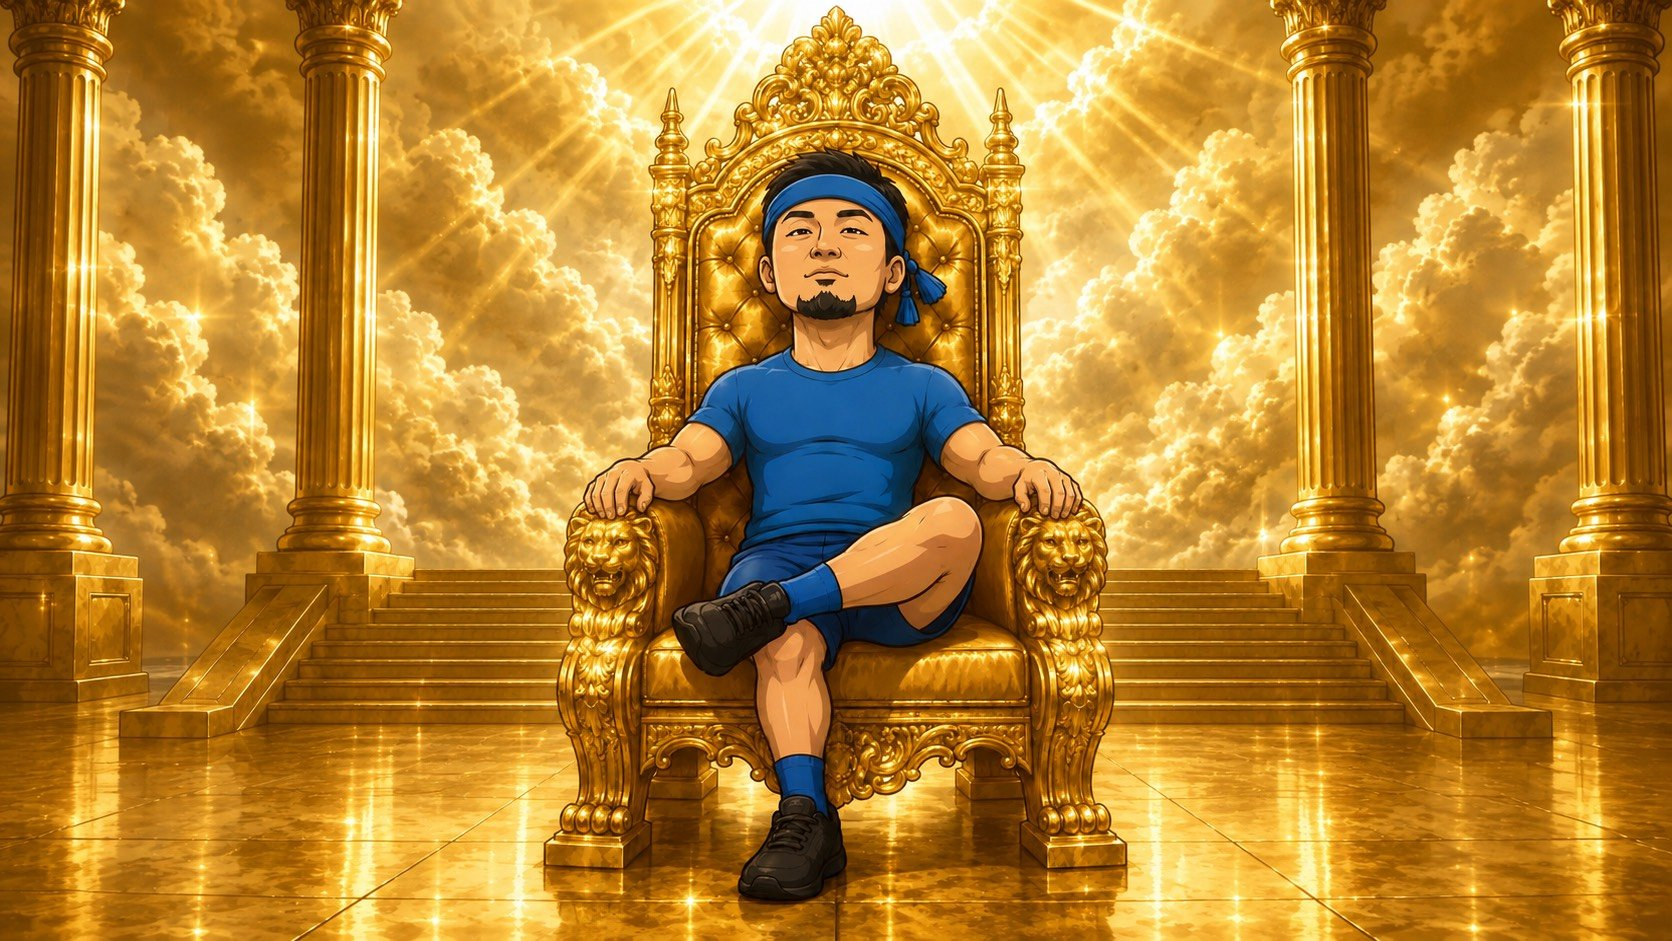
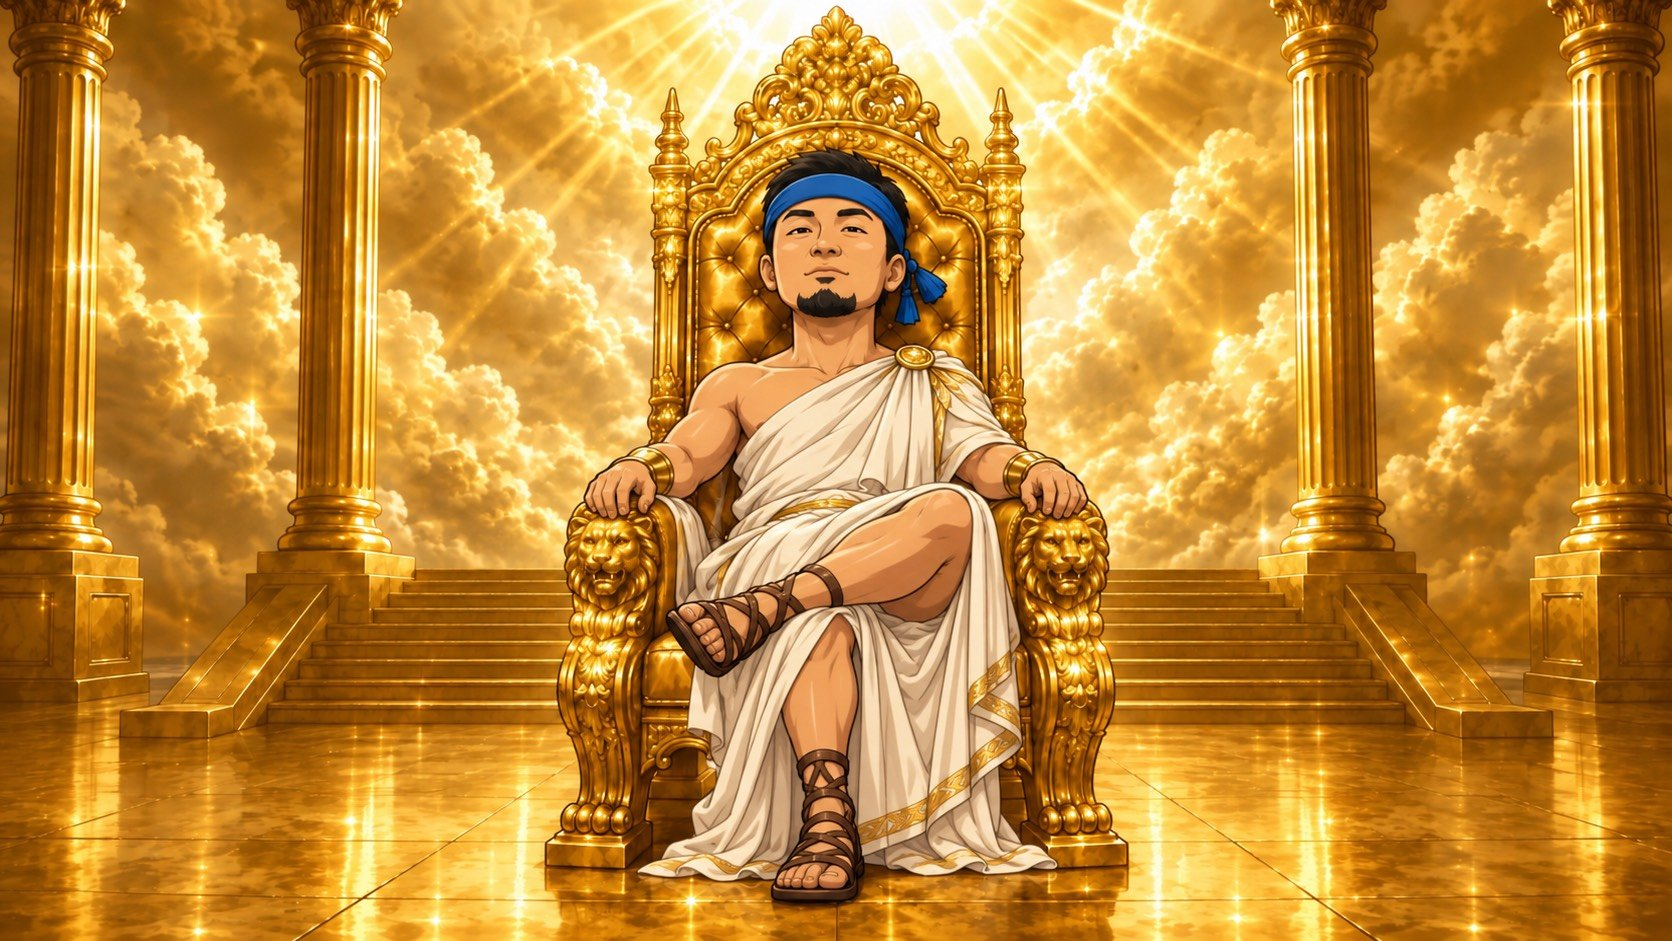
ギャル神のキメを支給素材ギャル神⑥（白トーガ）へ差し替え（v8・寸法同一でARは据え置き）

diff --git a/overlay.html b/overlay.html
@@ -3,7 +3,7 @@
 <head>
 <meta charset="utf-8">
 <title>overlay</title>
-<link rel="stylesheet" href="overlay.css?v=20260909-170920">
+<link rel="stylesheet" href="overlay.css?v=20260910-211924">
 </head>
 <body class="scene-talk" data-theme="a">
 
@@ -12,7 +12,7 @@
 
   <!-- ==== 全シーン共通ヘッダー ==== -->
   <header class="gbar">
-    <div class="sp-logo"><img src="sponsor_black.png?v=20260909-170920" alt="競輪公式投票CTC"></div>
+    <div class="sp-logo"><img src="sponsor_black.png?v=20260910-211924" alt="競輪公式投票CTC"></div>
     <div class="venue-tabs" id="vtabs"></div>
     <div class="camp-box hidden" id="camp-box"><span class="camp-label">本日のキャンペーン応募人数</span><span class="camp-num" id="camp-num"></span></div>
     <div class="clock-box"><span class="clock-date" data-clock-date></span><span class="clock-time" data-clock-time></span></div>
@@ -172,7 +172,7 @@
   <!-- ================= ⑤広告シーン ================= -->
   <section class="scene" id="scene-ad">
     <div class="panel ad-panel">
-      <div class="ad-logo"><img src="sponsor.png?v=20260909-170920" alt="競輪公式投票CTC"></div>
+      <div class="ad-logo"><img src="sponsor.png?v=20260910-211924" alt="競輪公式投票CTC"></div>
       <div class="ad-title" id="ad-title"></div>
       <ul class="ad-list" id="ad-list"></ul>
       <div class="ad-progress" id="ad-progress">
@@ -193,11 +193,11 @@
 
 <div class="dbg" id="dbg"></div>
 
-<script src="autoupdate.js?v=20260909-170920" data-au="reload"></script>
-<script src="config.js?v=20260909-170920"></script>
-<script src="keirin.js?v=20260909-170920"></script>
-<script src="derive.js?v=20260909-170920"></script>
-<script src="sync.js?v=20260909-170920"></script>
-<script src="overlay.js?v=20260909-170920"></script>
+<script src="autoupdate.js?v=20260910-211924" data-au="reload"></script>
+<script src="config.js?v=20260910-211924"></script>
+<script src="keirin.js?v=20260910-211924"></script>
+<script src="derive.js?v=20260910-211924"></script>
+<script src="sync.js?v=20260910-211924"></script>
+<script src="overlay.js?v=20260910-211924"></script>
 </body>
 </html>

diff --git a/overlay.js b/overlay.js
@@ -2431,12 +2431,13 @@
        DROP     …「ギャル神」が上から降り切るms（Naoto指定「ゆっくり」）
        HOLD     …キメを見せる時間ms（9/1夜v5「もうちょっと長め」＝2100→3400）／FADE…退場ms
      ⚠ENDがバッジまでの時間（fireHitFxがrainMsとして使う）＝約9.7秒（アジャスト10.3秒の帯）
-     素材＝fx_galgod_stairs/throne.jpg（素材加工/fx_galgod_make.py・元絵はOBS/ギャル神①③.jpg） */
+     素材＝fx_galgod_stairs/throne.jpg（素材加工/fx_galgod_make.py・元絵はOBS/ギャル神①⑥.jpg） */
   var GALGOD_BASE = { OPEN_HOLD: 350, OPEN_FADE: 900, CLIMB: 3000, FLASH_IN: 260, FLASH_OUT: 600,
     TITLE_LAG: 520, DROP: 1700, HOLD: 3400, FADE: 500 };
   var GALGOD_AR_S = 1122 / 1402; // 階段①の実寸比（横/縦）＝絵を差し替えたらfx_galgod_make.pyの出力で更新
-  var GALGOD_AR_T = 1672 / 941;  // 玉座③の実寸比（同上）。⚠9/1夜に②（縦長・顔アップ）→③（16:9全景）へ
+  var GALGOD_AR_T = 1672 / 941;  // 玉座⑥の実寸比（同上）。⚠9/1夜に②（縦長・顔アップ）→③（16:9全景）へ
                                  //   差し替え（Naoto「キメはワイプ画面を大きく使って表示」）＝ほぼ無クロップで敷ける
+                                 //   ⚠9/10にさらに③→⑥（白トーガの神様版）へ差し替え＝**寸法が同一なのでこの比は据え置き**
   var GALGOD_AR_I = 1280 / 427;  // 金塊④の切り抜き実寸比（同上）。9/1夜v7＝CSS描き→Naoto支給④へ
   var GALGOD_AR_F = 420 / 251;   // 金の羽⑤の切り抜き実寸比（同上）。9/1夜v7＝インラインSVG→支給⑤へ
   function galgodTimes() {

diff --git a/tenkai/index.html b/tenkai/index.html
@@ -4,7 +4,7 @@
 <meta charset="UTF-8">
 <meta name="viewport" content="width=device-width, initial-scale=1">
 <title>競輪 展開ボード</title>
-<link rel="stylesheet" href="css/style.css?v=20260909-170920">
+<link rel="stylesheet" href="css/style.css?v=20260910-211924">
 </head>
 <body>
 
@@ -91,15 +91,15 @@
 
 </div>
 
-<script src="../autoupdate.js?v=20260909-170920" data-au="output-only"></script>
-<script src="js/config.js?v=20260909-170920"></script>
-<script src="js/state.js?v=20260909-170920"></script>
-<script src="js/icons.js?v=20260909-170920"></script>
-<script src="js/bars.js?v=20260909-170920"></script>
-<script src="js/racecard.js?v=20260909-170920"></script>
-<script src="js/live.js?v=20260909-170920"></script>
-<script src="js/lineup.js?v=20260909-170920"></script>
-<script src="js/drag.js?v=20260909-170920"></script>
-<script src="js/main.js?v=20260909-170920"></script>
+<script src="../autoupdate.js?v=20260910-211924" data-au="output-only"></script>
+<script src="js/config.js?v=20260910-211924"></script>
+<script src="js/state.js?v=20260910-211924"></script>
+<script src="js/icons.js?v=20260910-211924"></script>
+<script src="js/bars.js?v=20260910-211924"></script>
+<script src="js/racecard.js?v=20260910-211924"></script>
+<script src="js/live.js?v=20260910-211924"></script>
+<script src="js/lineup.js?v=20260910-211924"></script>
+<script src="js/drag.js?v=20260910-211924"></script>
+<script src="js/main.js?v=20260910-211924"></script>
 </body>
 </html>

diff --git a/console.html b/console.html
@@ -4,7 +4,7 @@
 <meta charset="utf-8">
 <meta name="viewport" content="width=device-width, initial-scale=1">
 <title>配信コンソール</title>
-<link rel="stylesheet" href="console.css?v=20260909-170920">
+<link rel="stylesheet" href="console.css?v=20260910-211924">
 </head>
 <body>
 
@@ -227,11 +227,11 @@
 </div>
 </main>
 
-<script src="autoupdate.js?v=20260909-170920" data-au="banner"></script>
-<script src="config.js?v=20260909-170920"></script>
-<script src="keirin.js?v=20260909-170920"></script>
-<script src="derive.js?v=20260909-170920"></script>
-<script src="sync.js?v=20260909-170920"></script>
-<script src="console.js?v=20260909-170920"></script>
+<script src="autoupdate.js?v=20260910-211924" data-au="banner"></script>
+<script src="config.js?v=20260910-211924"></script>
+<script src="keirin.js?v=20260910-211924"></script>
+<script src="derive.js?v=20260910-211924"></script>
+<script src="sync.js?v=20260910-211924"></script>
+<script src="console.js?v=20260910-211924"></script>
 </body>
 </html>

diff --git a/autoupdate.js b/autoupdate.js
@@ -24,7 +24,7 @@
 
 (function () {
   "use strict";
-  var AU_BUILD = "20260909-170920";
+  var AU_BUILD = "20260910-211924";
 
   var params;
   try { params = new URLSearchParams(location.search); } catch (e) { return; }
